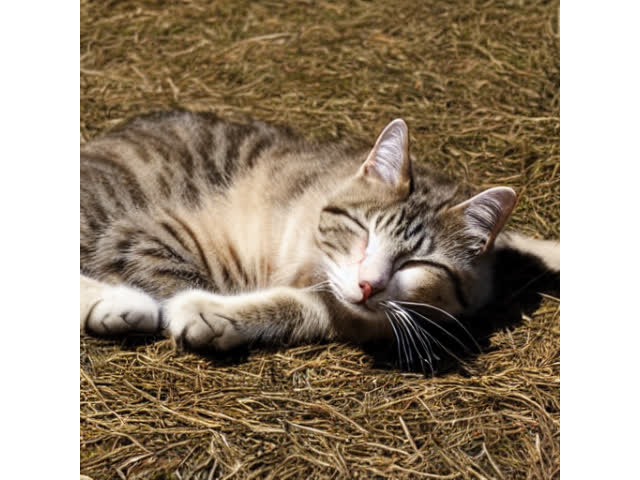
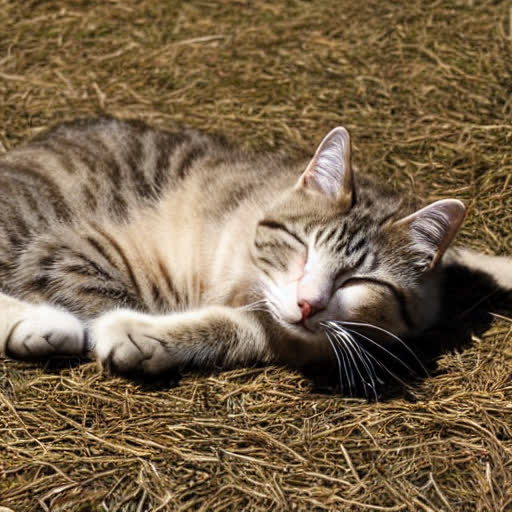
Playground image

diff --git a/docs/diffusion_scratch.html b/docs/diffusion_scratch.html
@@ -58,22 +58,26 @@ from matplotlib import pyplot</code></pre>
                 <pre><code>assert torch.cuda.is_available(), "CUDA is not available. Please run on a machine with a GPU."</code></pre>
 
                 <p>Now, file <a href="https://github.com/artinte/deep-learning/blob/develop/06_diffusion/4_scratch/loading_diffusion.py">loading_diffusion.py</a> load the Stable Diffusion model. You will need to authenticate with the Hugging Face Hub to access the model weights. If you don't have an account, you can create one at <a href="https://huggingface.co/join">Hugging Face</a> .</p>
-
+                <p>Here <span class="highlight">fp16</span> checkpoint is loaded just to save memory and compute time. if you have a great gpu, you can remove the line <code>revision="fp16", torch_dtype=torch.float16</code> :</p>
                 <pre><code>pipe = StableDiffusionPipeline.from_pretrained(
     "CompVis/stable-diffusion-v1-4",
     revision="fp16",
     torch_dtype=torch.float16,
     use_auth_token=True
-).to("cuda")</code></pre>
+).to("cuda")
+
+# Disable the safety checker for this example
+def dummy_checker(images, **kwargs):
+    return images, [False] * len(images)
+pipe.safety_checker = dummy_checker</code></pre>
+
+                
+                <h4>6.4.1.2 Generative Playground</h4>
 
                 <p>Once the model is loaded, you can generate images from text prompts. The following code generates an image of a "lovely cat running in the desert in Van Gogh style, trending art." and displays it.</p>
 
-                <pre><code># Disable the safety checker for this example
-def dummy_checker(images, **kwargs):
-    return images, [False] * len(images)
-pipe.safety_checker = dummy_checker
-
-prompt = "a lovely cat running in the desert in Van Gogh style, trending art."
+                <h5>Generating an Image</h5>
+                <pre><code>prompt = "a lovely cat running in the desert in Van Gogh style, trending art."
 image = pipe(prompt).images[0]  # image here is in [PIL format](https://pillow.readthedocs.io/en/stable/)
 
 # Now to display an image you can do either save it such as
@@ -87,6 +91,7 @@ pyplot.show()  # Display the image</code></pre>
                 <img src="res/06/lovely_cat.jpg" alt="Lovely Cat">
                 <p style="text-align: center; color: #555555;">Figure 1 - A Lovely Cat Generated by Stable Diffusion</p>
                 
+                <h5>Fixing the Random Seed</h5>
                 <p>By creating a <code>torch.Generator</code> object and setting its seed with <code>.manual_seed(42)</code> , you ensure that the same sequence of random numbers is used each time the pipeline is run with this generator. This results in the same image being generated from the same prompt and other parameters:</p>
                 <pre><code>generator = torch.Generator("cuda").manual_seed(42)
 prompt = 'a sleeping cat enjoying the sunshine.'
@@ -99,7 +104,31 @@ pyplot.show()  # Display the image</code></pre>
                 <img src="res/06/sleeping_cat_seed.jpg" alt="Sleeping Cat with Seed">
                 <p style="text-align: center; color: #555555;">Figure 2 - A Sleeping Cat with Fixed Seed</p>
 
-                <h4>6.4.1.2 Generative Playground</h4>
+                <h5>Changing (Denoising) Diffusion Steps</h5>
+
+                <p>To generate images with different levels of detail, you can adjust the <code>num_inference_steps</code> parameter. This parameter controls how many steps the diffusion model takes to generate the image. More steps generally lead to higher quality images but take longer to compute:</p>
+                <pre><code>prompt = 'a sleeping cat enjoing the sunshine.'
+image = pipe(prompt, num_inference_steps=25).images[0]
+image.save(f"temp/sleeping_cat_25.png")
+pyplot.imshow(numpy.array(image))  # Convert PIL image to numpy array for display
+pyplot.axis('off')  # Hide axes
+pyplot.show()  # Display the image</code></pre>
+
+                <img src="res/06/sleeping_cat_25.jpg" alt="Sleeping Cat with 25 Steps">
+                <p style="text-align: center; color: #555555;">Figure 3 - A Sleeping Cat with 25 Inference Steps</p>
+
+                <h5>Adding Negative prompt</h5>
+                <p>Adding negative prompt can control what you do not want.</p>
+
+                <pre><code>prompt = "a sleeping cat enjoying the sunshine."
+image = pipe(prompt, negative_prompt="tree and leaves").images[0]
+image.save(f"temp/sleeping_cat_negative.png")
+pyplot.imshow(numpy.array(image))
+pyplot.axis("off")
+pyplot.show()</code></pre>
+
+                <img src="res/06/sleeping_cat_negative.jpg" alt="Sleeping Cat with Negative Prompt">
+                <p style="text-align: center; color: #555555;">Figure 4 - A Sleeping Cat with Negative Prompt</p>
 
                 <h4>6.4.1.3 Visualizing the Diffusion in Action</h4>
 

diff --git a/06_diffusion/4_scratch/loading_diffusion.py b/06_diffusion/4_scratch/loading_diffusion.py
@@ -5,45 +5,57 @@ import torch
 from diffusers import StableDiffusionPipeline
 from matplotlib import pyplot
 
-assert torch.cuda.is_available(), "CUDA is not available. Please run on a machine with a GPU."
+assert (
+    torch.cuda.is_available()
+), "CUDA is not available. Please run on a machine with a GPU."
 
 pipe = StableDiffusionPipeline.from_pretrained(
     "CompVis/stable-diffusion-v1-4",
     revision="fp16",
     torch_dtype=torch.float16,
-    use_auth_token=True
+    use_auth_token=True,
 ).to("cuda")
+
 
 # Disable the safety checker for this example
 def dummy_checker(images, **kwargs):
     return images, [False] * len(images)
-pipe.safety_checker = dummy_checker
 
-prompt = "a lovely cat running in the desert in Van Gogh style, trending art."
-image = pipe(prompt).images[0]  # image here is in [PIL format](https://pillow.readthedocs.io/en/stable/)
+
+pipe.safety_checker = dummy_checker
 
 # Now to display an image you can do either save it such as
 os.makedirs("temp", exist_ok=True)
-image.save(f"temp/lovely_cat.png")
 
+prompt = "a lovely cat running in the desert in Van Gogh style, trending art."
+# image here is in [PIL format](https://pillow.readthedocs.io/en/stable/)
+image = pipe(prompt).images[0]
+image.save(f"temp/lovely_cat.png")
 pyplot.imshow(numpy.array(image))  # Convert PIL image to numpy array for display
-pyplot.axis('off')  # Hide axes
-pyplot.show()  # Display the image
+pyplot.axis("off")
+pyplot.show()
 
 
 generator = torch.Generator("cuda").manual_seed(42)
-prompt = 'a sleeping cat enjoying the sunshine.'
+prompt = "a sleeping cat enjoying the sunshine."
 image = pipe(prompt, generator=generator).images[0]  # Generate image with a fixed seed
 image.save(f"temp/sleeping_cat_seed.png")
-pyplot.imshow(numpy.array(image))  # Convert PIL image to numpy array for display
-pyplot.axis('off')  # Hide axes
-pyplot.show()  # Display the image
+pyplot.imshow(numpy.array(image))
+pyplot.axis("off")
+pyplot.show()
 
 
-prompt = 'a sleeping cat enjoing the sunshine.'
+prompt = "a sleeping cat enjoing the sunshine."
 image = pipe(prompt, num_inference_steps=25).images[0]
 image.save(f"temp/sleeping_cat_25.png")
-pyplot.imshow(numpy.array(image))  # Convert PIL image to numpy array for display
-pyplot.axis('off')  # Hide axes
-pyplot.show()  # Display the image
+pyplot.imshow(numpy.array(image))
+pyplot.axis("off")
+pyplot.show()
 
+
+prompt = "a sleeping cat enjoying the sunshine."
+image = pipe(prompt, negative_prompt="tree and leaves").images[0]
+image.save(f"temp/sleeping_cat_negative.png")
+pyplot.imshow(numpy.array(image))
+pyplot.axis("off")
+pyplot.show()
